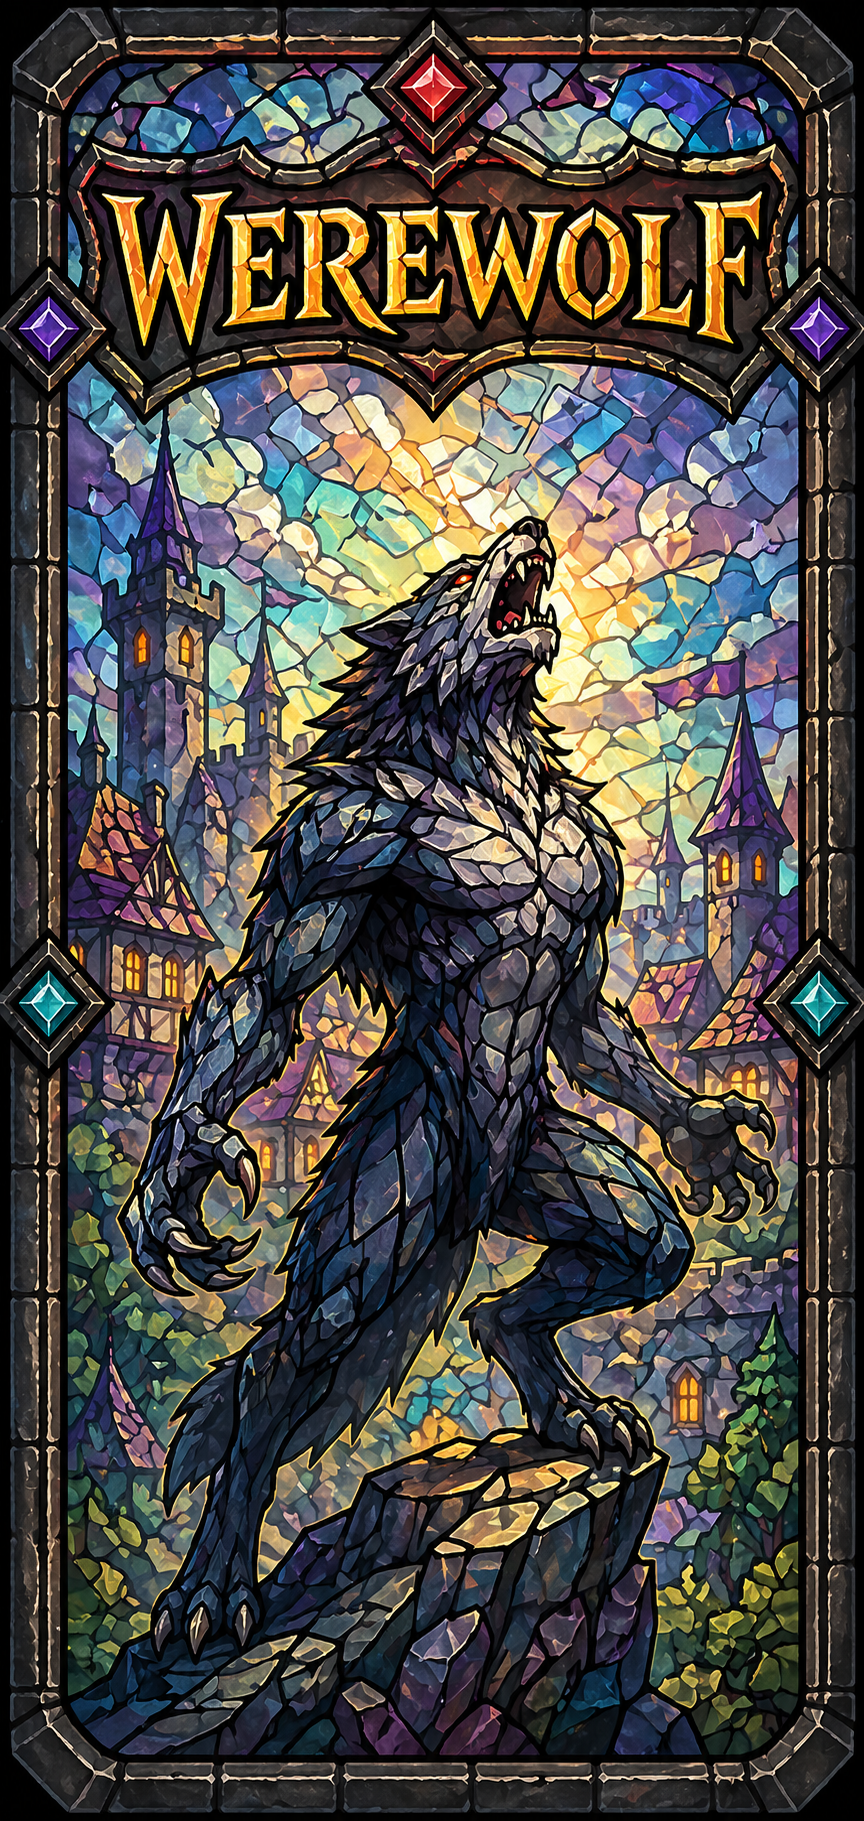
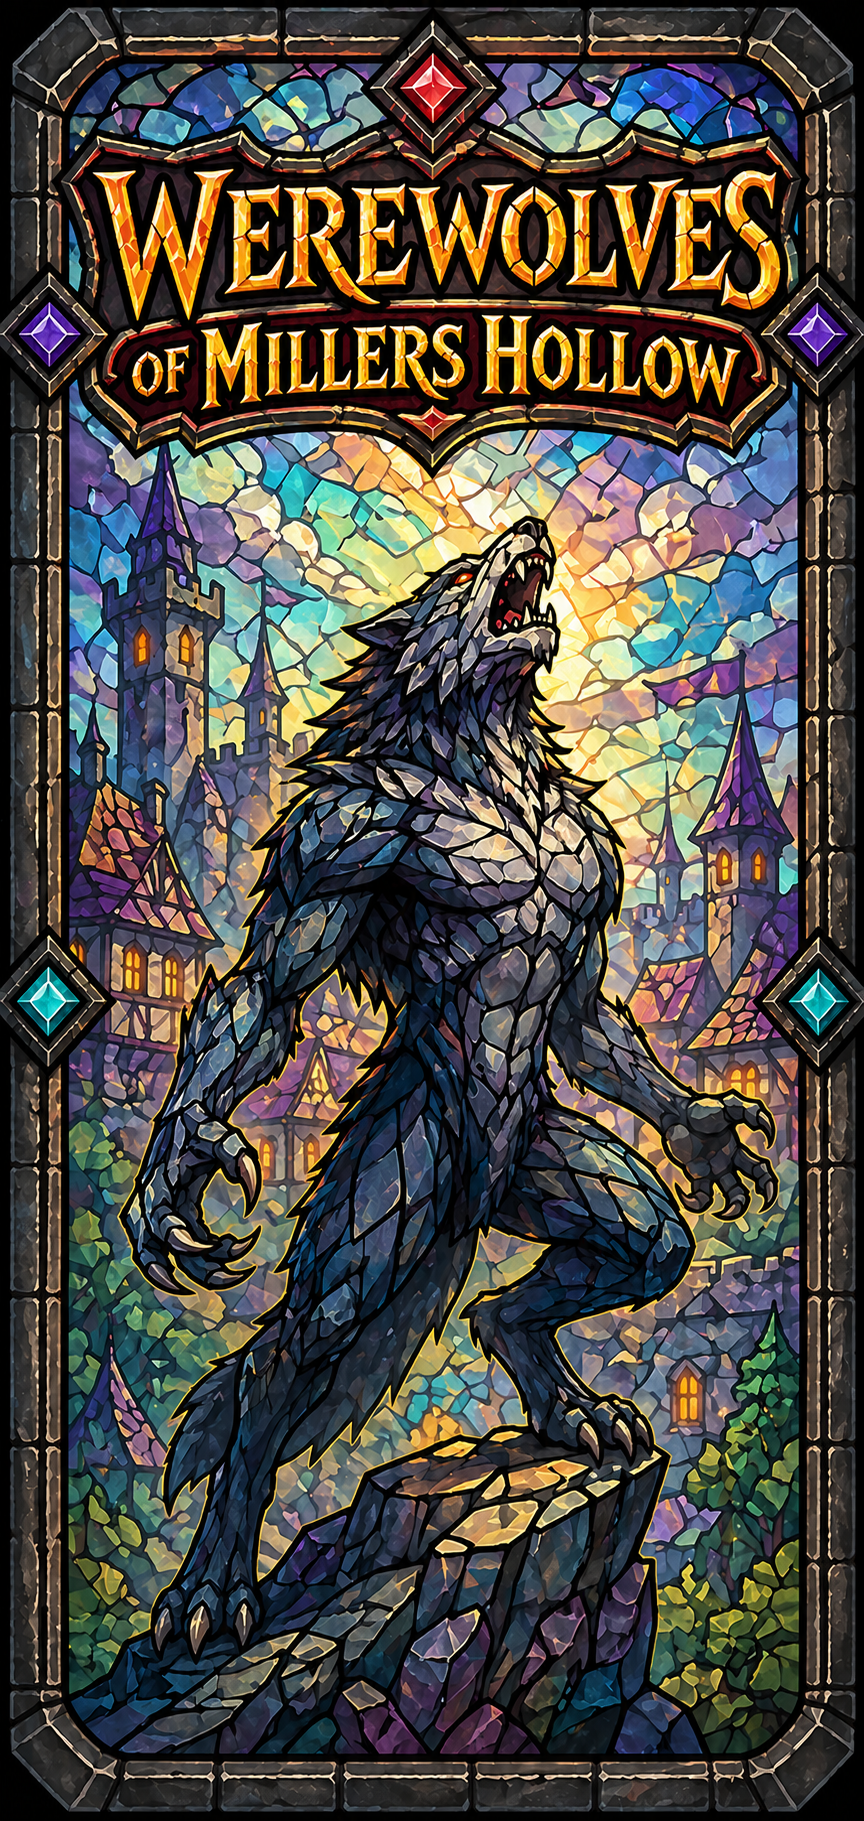
New launch screen artwork
Replace the launch background with "Stained-Glass Howl" (howling
werewolf with the game title). Original PNG in assets-src/home_page.png,
app copy exported as WebP at the same 864x1821 (455 KB). The previous
artwork is kept in the git-ignored assets/unused/ folder.

diff --git a/CLAUDE.md b/CLAUDE.md
@@ -107,7 +107,8 @@ A React Native (Expo) mobile app for the social deduction game "The Werewolves o
 /assets-src/                 — Full-resolution original PNGs (not bundled); source for /assets
 /assets/                     — Resized WebP images used by the app (only game_icon.png stays PNG)
   game_icon.png              — App icon (set in app.json for iOS + Android)
-  home_page.webp             — LaunchScreen full-screen background (stained-glass werewolf art)
+  home_page.webp             — LaunchScreen full-screen artwork ("Stained-Glass Howl": howling werewolf
+                               with the game title); the previous artwork is in assets/unused/
   play_btn.webp              — LaunchScreen play button (stained-glass style)
   day_background.webp        — DayPhaseScreen full-screen ImageBackground (warm pink/peach castle)
   night_background.webp      — NightPhaseScreen full-screen ImageBackground (deep purple castle)
